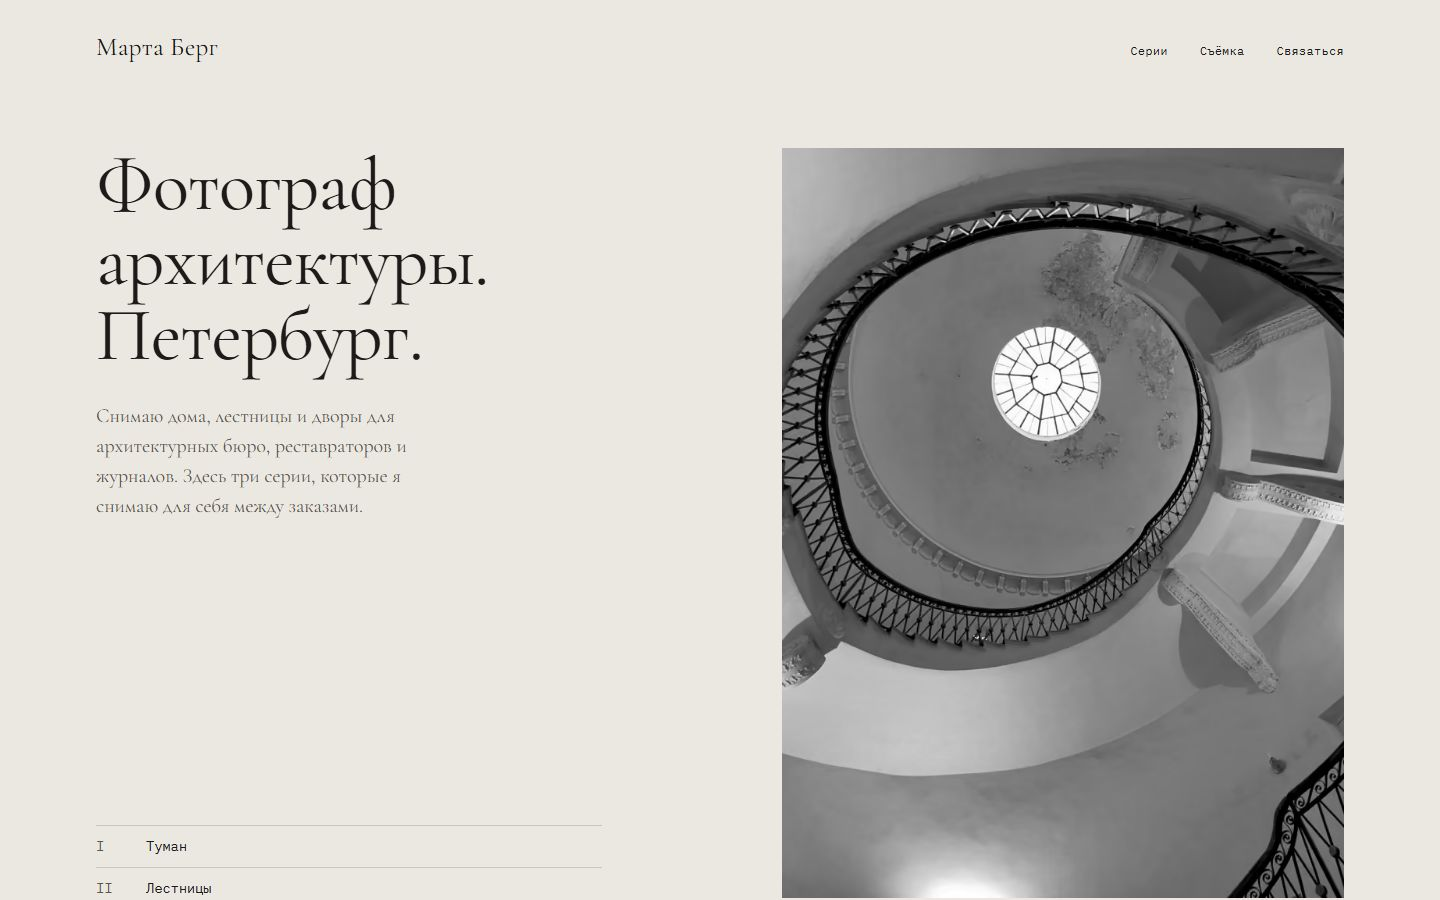
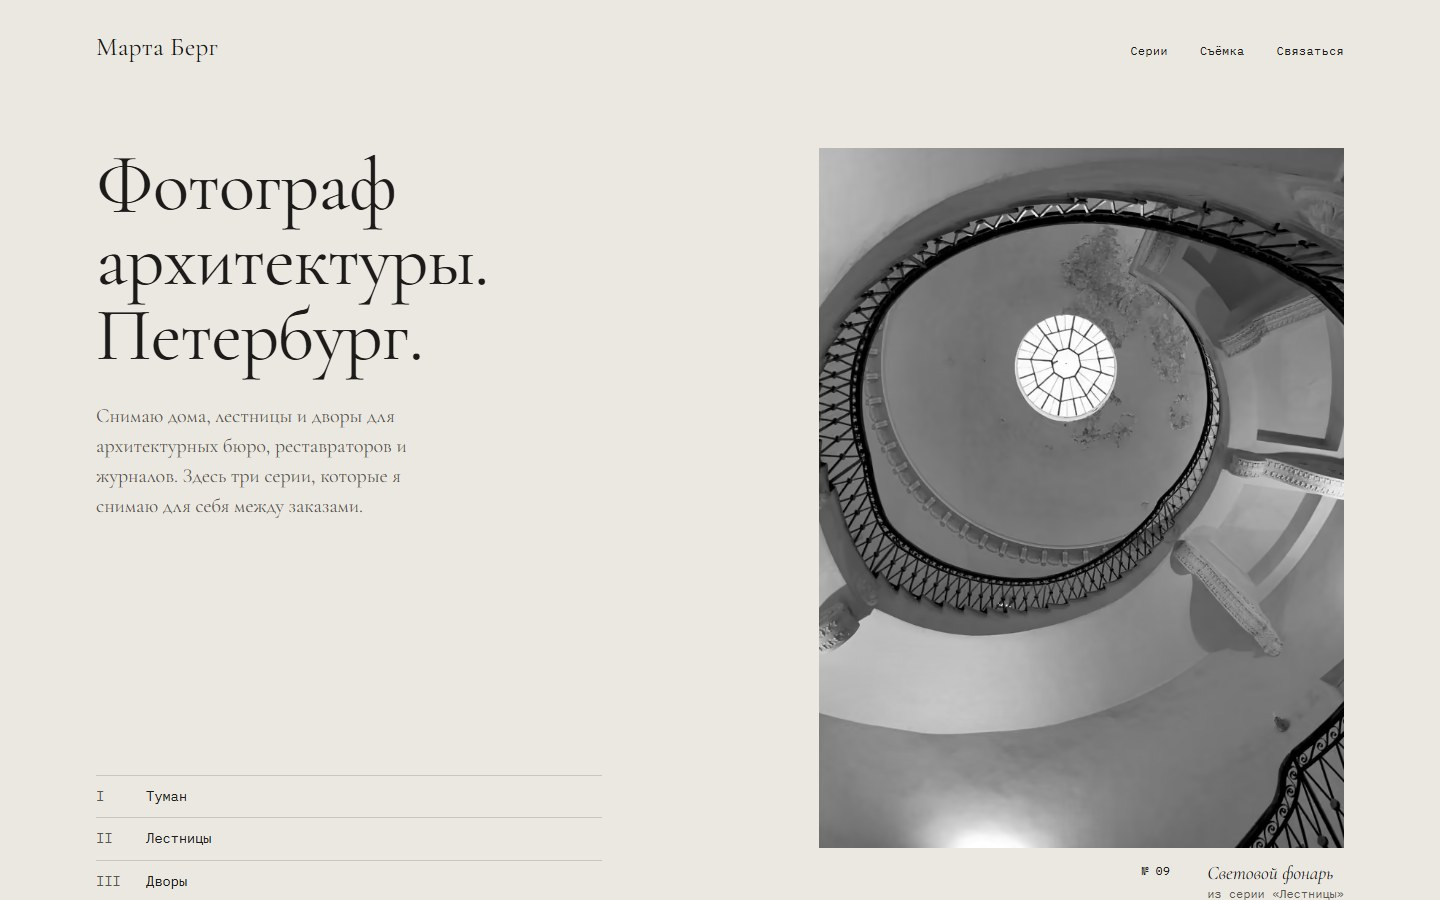
Simplify photographer copy and refresh screenshots

Changed region(s): [[0.5312, 0.1556, 0.9375, 1.0], [0.0625, 0.8711, 0.1562, 0.9956]]

diff --git a/index.html b/index.html
@@ -3,12 +3,12 @@
 <head>
   <meta charset="utf-8">
   <meta name="viewport" content="width=device-width, initial-scale=1">
-  <title>Марта Берг — фотограф архитектуры, Петербург</title>
+  <title>Марта Берг, фотограф архитектуры. Петербург</title>
   <meta name="description" content="Марта Берг снимает архитектуру Петербурга: парадные, дворы-колодцы, набережные в тумане. Съёмка объектов для архитекторов, реставраторов и изданий. Концепт сайта.">
   <link rel="canonical" href="https://hmsusbusas-png.github.io/marta-berg/">
   <meta property="og:type" content="website">
   <meta property="og:locale" content="ru_RU">
-  <meta property="og:title" content="Марта Берг — фотограф архитектуры">
+  <meta property="og:title" content="Марта Берг, фотограф архитектуры">
   <meta property="og:description" content="Три серии о Петербурге: туман, лестницы, дворы.">
   <meta property="og:url" content="https://hmsusbusas-png.github.io/marta-berg/">
   <meta property="og:image" content="https://hmsusbusas-png.github.io/marta-berg/og.jpg">
@@ -213,7 +213,7 @@
       <dl class="work__list">
         <div>
           <dt>Объект для архитектурного бюро</dt>
-          <dd>Фасады, интерьеры, детали. Один день на объекте, 20–30 кадров в обработке.</dd>
+          <dd>Фасады, интерьеры, детали. Один день на объекте, 20-30 кадров в обработке.</dd>
           <dd class="work__price">от 35 000 ₽</dd>
         </div>
         <div>

diff --git a/404.html b/404.html
@@ -3,7 +3,7 @@
 <head>
   <meta charset="utf-8">
   <meta name="viewport" content="width=device-width, initial-scale=1">
-  <title>Кадр не найден — Марта Берг</title>
+  <title>Кадр не найден. Марта Берг</title>
   <meta name="robots" content="noindex">
   <link rel="icon" href="/marta-berg/favicon.svg" type="image/svg+xml">
 

diff --git a/README.md b/README.md
@@ -12,7 +12,7 @@ Portfolio site concept for a fictional architectural photographer in Saint Peter
 
 ## Что на странице
 
-- Три серии по пять кадров. Каждый кадр стоит в своей позиции: на всю ширину, справа, парой со смещением. Сетки из одинаковых карточек нет.
+- Три серии по пять кадров. Положение снимка зависит от композиции: на всю ширину, справа или в паре со смещением.
 - У каждого кадра этикетка: номер, название, место, автор и лицензия со ссылкой на оригинал.
 - Просмотр в полный размер через `<dialog>`: стрелки, Esc, фокус возвращается на кадр.
 - Блок «Съёмка на заказ» с тремя видами работ и порядком съёмки, контакт по почте.
@@ -33,9 +33,9 @@ python -m http.server 8000
 
 `index.html`, `css/style.css` и `js/viewer.js` (40 строк, только просмотрщик). Шрифты: Cormorant Garamond для текста и IBM Plex Mono для подписей, оба с кириллицей. Файлы woff2 лежат в `fonts/` (только латиница и кириллица), внешних запросов нет.
 
-Фотографии лежат в `img/` в AVIF и WebP трёх ширин (720, 1280, 2000), браузер берёт нужную через `srcset`. Все кадры переведены в ч/б одной обработкой, чтобы серия от разных авторов читалась как работа одного человека. EXIF удалён.
+Фотографии лежат в `img/` в AVIF и WebP трёх ширин (720, 1280, 2000), браузер берёт нужную через `srcset`. Кадры переведены в ч/б с одинаковыми настройками контраста. EXIF удалён.
 
-Lighthouse (мобильный профиль): производительность 96, доступность, лучшие практики и SEO — 100. axe и html-validate без ошибок.
+Lighthouse (мобильный профиль): производительность 96, доступность, лучшие практики и SEO: 100. axe и html-validate без ошибок.
 
 ## Ограничения
 
@@ -66,4 +66,4 @@ Lighthouse (мобильный профиль): производительнос
 
 ## Лицензия
 
-Код — MIT, см. [LICENSE](LICENSE). Фотографии — под лицензиями авторов из таблицы выше.
+Код распространяется по MIT, см. [LICENSE](LICENSE). Фотографии опубликованы под лицензиями авторов из таблицы выше.
